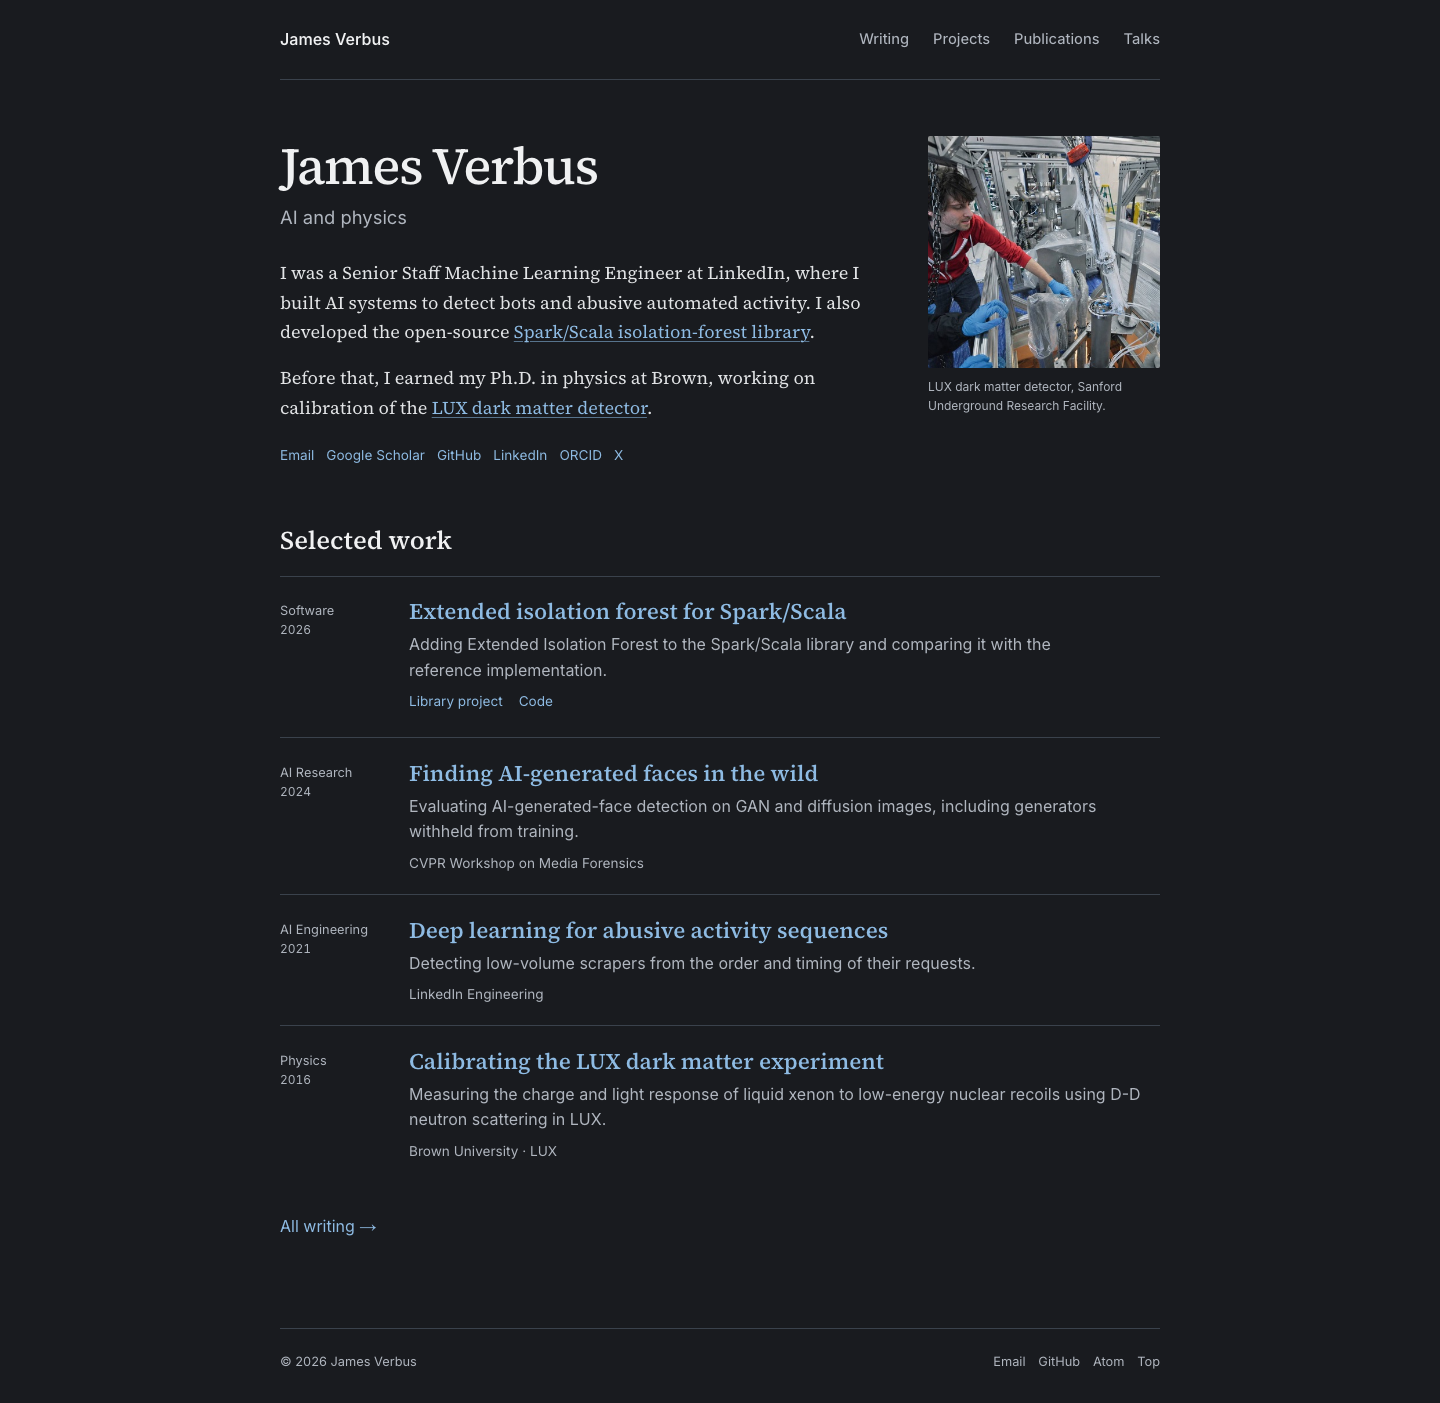
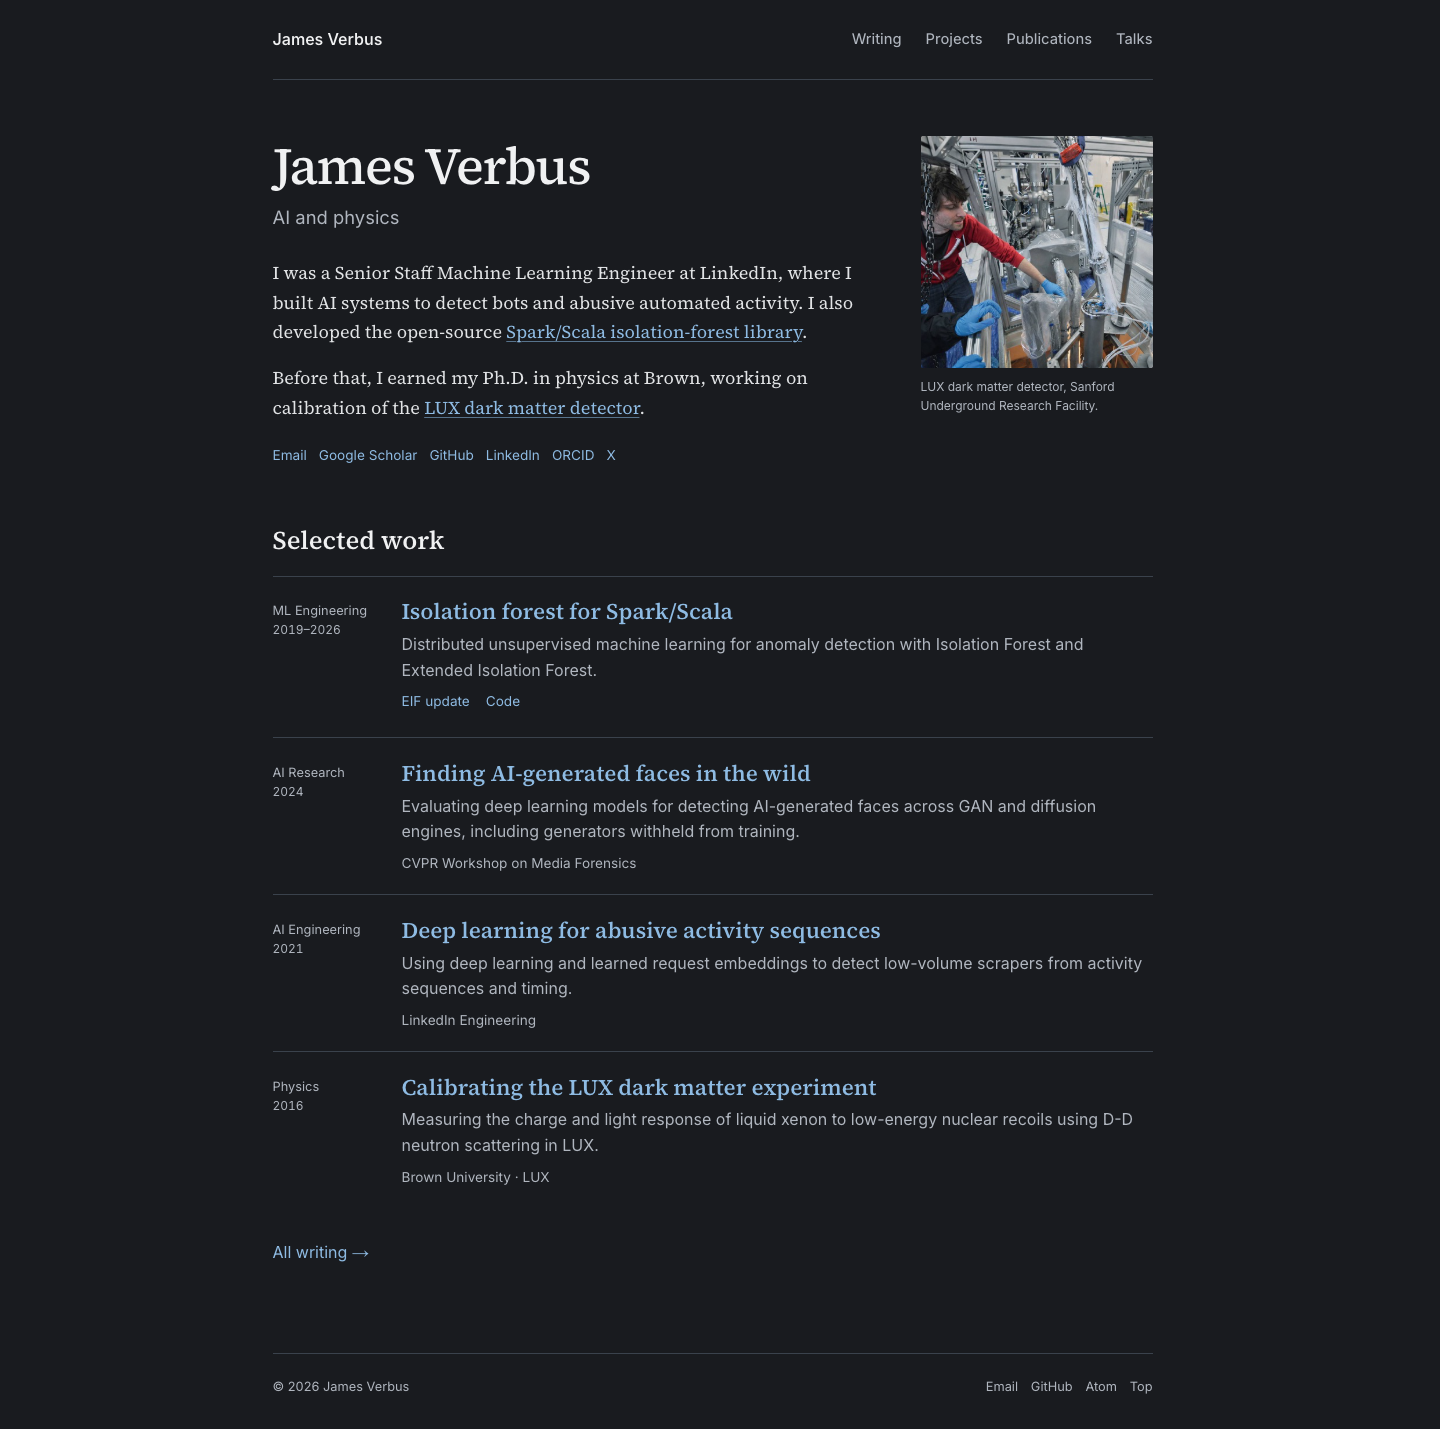
Emphasize machine learning in selected homepage work

diff --git a/scripts/design-review/academic-2026-09-07/README.md b/scripts/design-review/academic-2026-09-07/README.md
@@ -11,7 +11,7 @@ uses near-white, charcoal and blue, with a graphite dark mode.
 | --- | --- |
 | Identity | Name as the main heading, with “AI and physics” directly below it. Biography emphasizes AI for detecting bots and abusive automated activity, followed by the open-source library and Brown/LUX background. |
 | Homepage | Replaces the slogan, metric strip, route cards, repeated collection previews and contact button with an introduction and four work entries. Existing home fragment targets remain available. |
-| Selected work | `_data/home.yml` lists the 2026 Extended Isolation Forest article, generated-face detection (AI Research, 2024), activity-sequence detection (AI Engineering, 2021) and LUX calibration (Physics, 2016). All entries have a year, with concise provenance or library links in the main column. |
+| Selected work | `_data/home.yml` lists the isolation-forest library (ML Engineering, 2019–2026), generated-face detection (AI Research, 2024), activity-sequence detection (AI Engineering, 2021) and LUX calibration (Physics, 2016). All entries have dates, with concise provenance or resource links in the main column. |
 | Navigation | Writing, Projects, Publications and Talks are text links. All four remain visible on mobile without JavaScript. `/videos/` remains the Talks URL. |
 | Typography | Existing vendored Source Serif 4 and Inter, with aligned headings, comfortable reading text and subdued metadata. No new fonts or dependencies. |
 | Collections and posts | Open lists replace raised cards. Article headers, links, contact controls and footers use the quieter presentation. Tables, figures, equations, code and demos retain their substance and functionality. |
@@ -22,10 +22,10 @@ including Castle. All pages use stylesheet version `loop57`, the shared navigati
 global footer, and the same light/dark theme colors. The existing stylesheet structure
 is retained. Homepage structured data uses the new home description.
 
-The selected software entry points to the 2026 EIF article to show recent development.
-That article links to the original 2019 work; the biography and selected entry link directly
-to the library's project page, and the entry also links to its GitHub repository. Its
-displayed 2026 date belongs to the featured article, not to the library's creation.
+The ML Engineering entry links to the top-level `/open-source/isolation-forest/` project
+page. “EIF update” and “Code” remain secondary links. The displayed 2019–2026 range covers
+the documented 2019 open-source release and the 2026 EIF update; the title describes the
+whole library. Its summary emphasizes distributed unsupervised machine learning.
 
 This design implements the later approved homepage/footer changes. The prior editorial
 review's other optional holds remain unchanged: publication counts, interview copy, and
@@ -35,11 +35,12 @@ the protected face/LUX passages. Post sources and publication/talk data were not
 
 | Finding | Implementation |
 | --- | --- |
-| 1. Provenance and face-detection wording | Added “Library project” and “Code” links to the EIF entry. Added “CVPR Workshop on Media Forensics,” “LinkedIn Engineering,” and “Brown University · LUX” below the other descriptions. The venue and engineering source are present in `_data/publications.yml`; Brown/LUX is established in the biography and thesis record. The faces description now reads “Evaluating AI-generated-face detection on GAN and diffusion images, including generators withheld from training.” The underlying article is unchanged. |
+| 1. Provenance and face-detection wording | The library title links to its project page, with “EIF update” and “Code” links below. Added “CVPR Workshop on Media Forensics,” “LinkedIn Engineering,” and “Brown University · LUX” below the other descriptions. The venue and engineering source are present in `_data/publications.yml`; Brown/LUX is established in the biography and thesis record. The faces description specifies deep learning for detecting generated faces, retaining GAN/diffusion coverage and generators withheld from training. The underlying article is unchanged. |
 | 2. Recognizable linked titles | Selected-work and collection titles use the existing blue at rest, a darker/lighter accent on hover, and the existing visible focus outline. This also applies to Castle's entry. |
 | 3. Readable supporting text | Work and collection descriptions are 1rem (16px at the default root size), including Castle's entry; context, dates and categories remain smaller. The mobile photo caption is 0.8rem. Testing found that it extended beyond the viewport at 320px with 200% root text sizing; the photo row now wraps the caption below the image when needed. |
 | 4. Archive continuation | One ordinary “All writing →” link follows the four selected works and leads to `/posts/`. |
 | 5. Direct biography | The opening now begins “I was a Senior Staff Machine Learning Engineer at LinkedIn, where I built AI systems to detect bots and abusive automated activity.” The library follows in its own sentence; the Brown/LUX paragraph and existing links remain. |
+| Homepage ML emphasis | Changed “Software” to “ML Engineering,” restored the top-level library link, and revised the first three summaries to identify unsupervised machine learning, deep learning for generated-face detection, and learned request embeddings for scraper detection. The LUX entry is unchanged in both source data and rendered markup. |
 | Rendering and interaction review | Checked Chrome, Firefox and WebKit, including narrow widths, both themes, keyboard focus, enlarged text and the technical pages. Native Safari automation was unavailable; details below. |
 | Castle and scope | No Castle source, assets, content metadata, article copy or entry markup changed. No post source, collaborator credit, publication data, technical example or AI-assistance disclosure changed. The name, field label, photograph, four-work selection, fonts and palette are retained. |
 
@@ -81,6 +82,12 @@ The subsequent Castle UI correction uses an unchanged-tree baseline at
 `b73e65aad7958cb2fbebb9f5b785c942883368d7`, saved at `/private/tmp/castle-ui-20260907/`:
 200 tracked source files and hashes, the complete generated site, and Castle's manifest.
 
+The homepage ML-copy update uses the unchanged build at
+`339fd90bef4a6e9c39699f30daa213d0adfab68e`, saved at `/private/tmp/home-ml-20260907/`.
+Only the first three selected-work entries change. LUX's data and rendered entry, the
+rest of the homepage, and all 42 other HTML pages match this baseline. No template, CSS,
+post source, asset or other site data changed. Homepage screenshots are refreshed.
+
 - CI-config build and production build both succeed. The production validator also passes
   with `--require-absolute-site-urls`.
 - `check_generated_site.py` output is byte-identical to the baseline. All 43 HTML routes
@@ -97,7 +104,7 @@ The subsequent Castle UI correction uses an unchanged-tree baseline at
   Its Writing entry uses the same title color and description size as other entries.
 - All ten complete rendered article subtrees match the baseline, including their headers,
   body copy, figures, equations, code, collaborator credits and AI-assistance disclosures.
-  All 42 non-Castle HTML bodies are unchanged from the Castle UI correction baseline.
+  All 42 non-homepage HTML pages are unchanged from the homepage ML-copy baseline.
 - Browser review: Chrome 152 covers nine pages at desktop 1440×1080 and mobile 390×844,
   in light and dark modes (36 combinations). Firefox 155 and Playwright WebKit 26.6 each
   cover the homepage, Writing, Publications, Projects, Talks, EIF, LUX and orbital-transfer
@@ -110,6 +117,9 @@ The subsequent Castle UI correction uses an unchanged-tree baseline at
   [macOS's Option-Tab link-navigation shortcut](https://support.apple.com/en-euro/guide/safari/cpsh003/mac).
 - Castle additionally passes checks for keyboard navigation, visible navigation without
   JavaScript at 320/760/768px, and 200% root text sizing in all three engines.
+- The ML-copy update has 13 refreshed homepage views across Chrome, Firefox and WebKit,
+  covering desktop/mobile and both themes, plus Firefox at 320px with enlarged text.
+  No overflow or missing images was found.
 - Seventeen additional checks cover visible navigation without JavaScript at 320/760/768
   pixels, hidden demo fallbacks, keyboard skip/navigation focus, light/dark text contrast,
   and white print output while the system is in dark mode.
